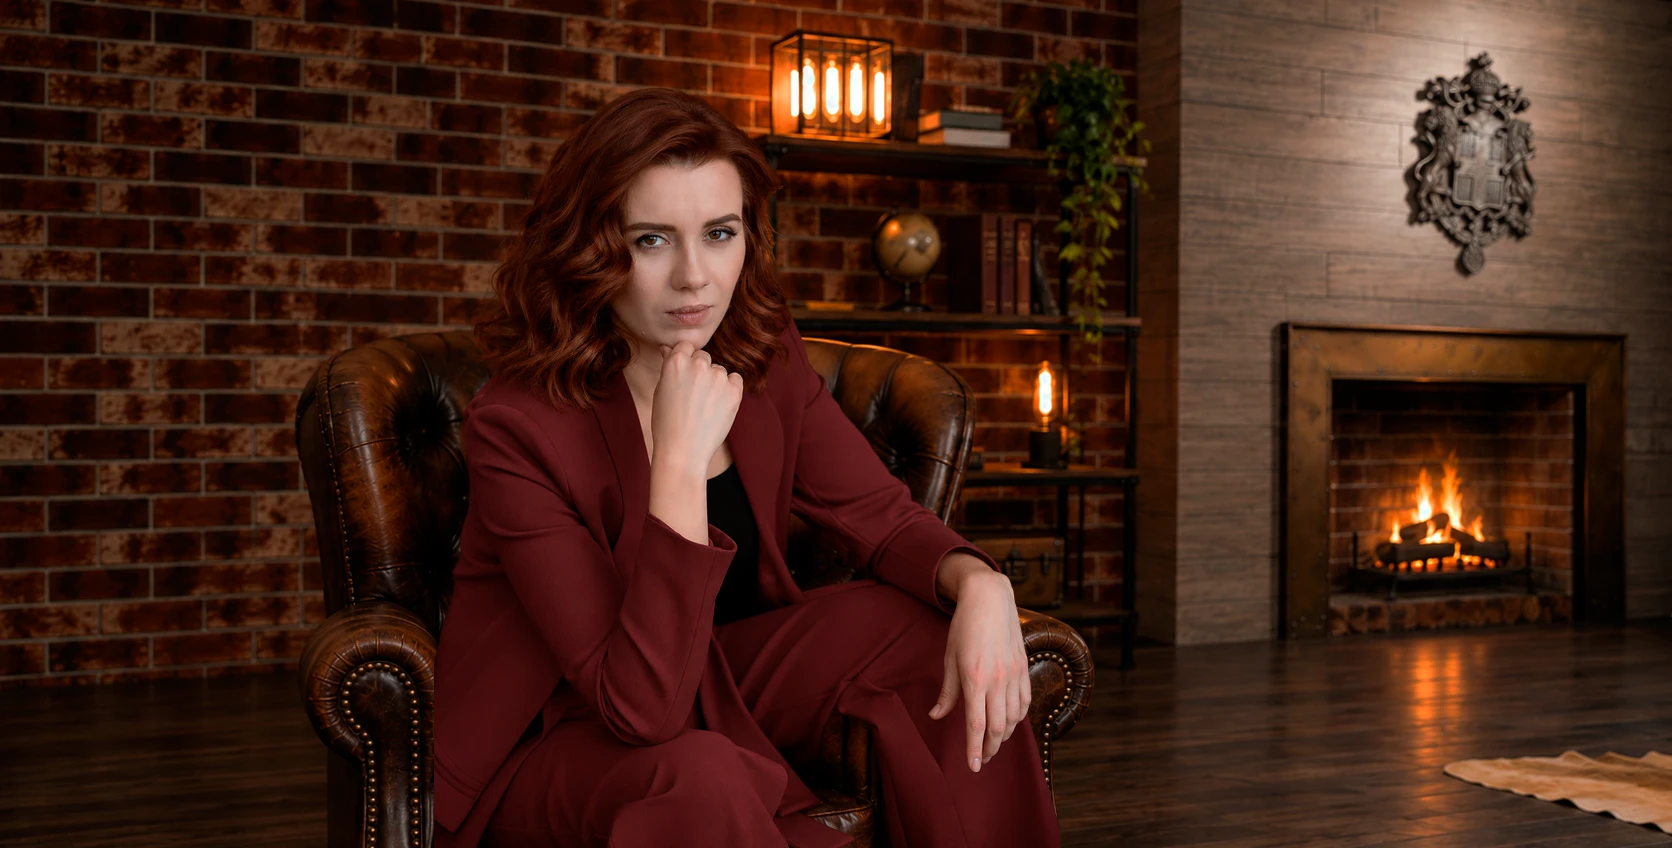
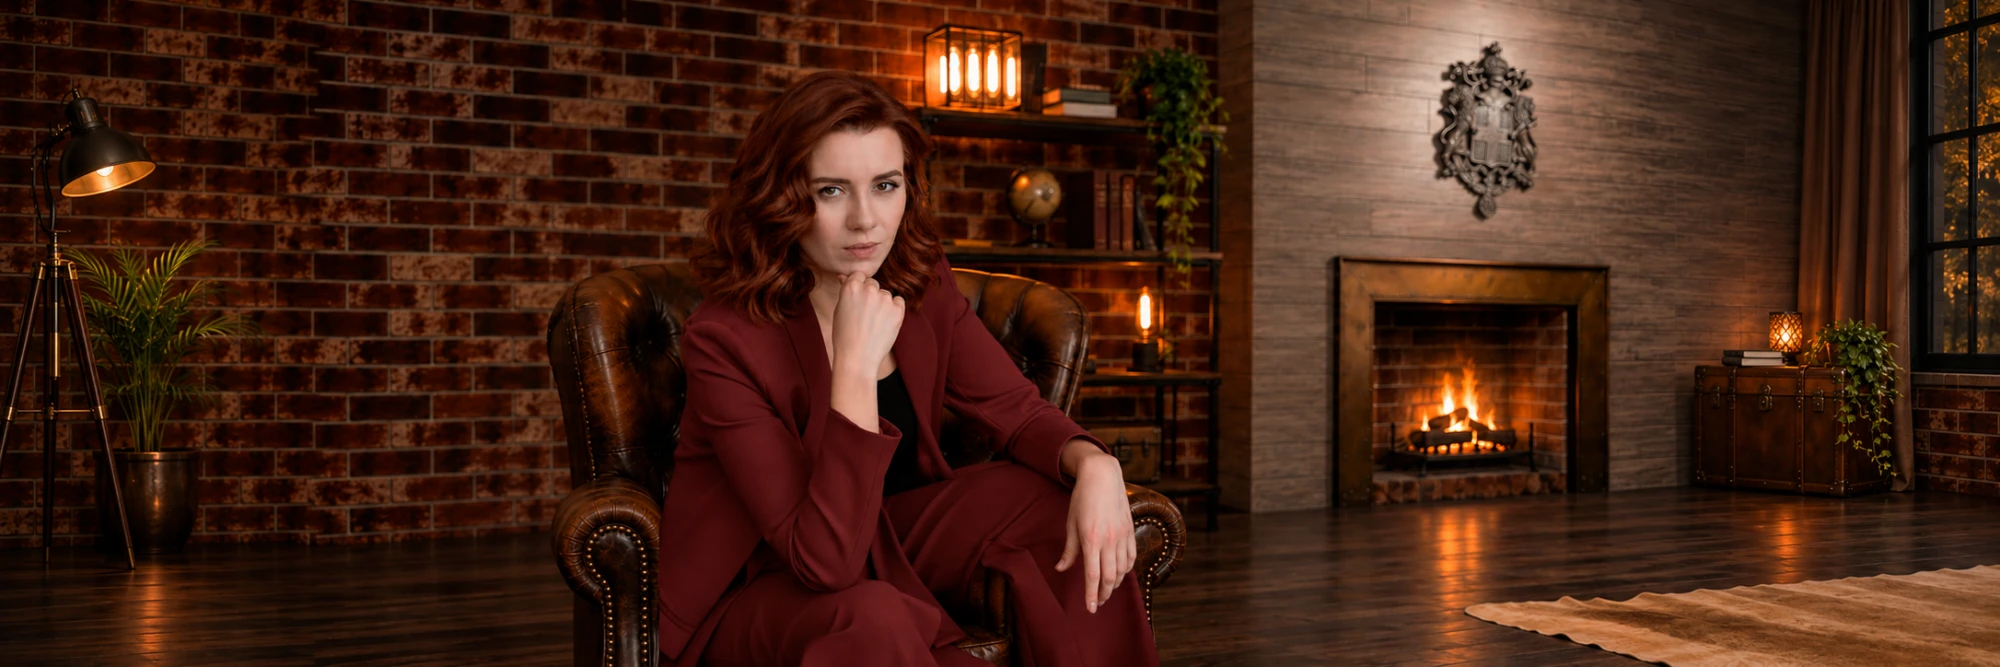
Hero: use panoramic photo, drop blurred backdrop

diff --git a/src/style.css b/src/style.css
@@ -27,9 +27,8 @@ a:focus-visible{outline:2px solid var(--accent);outline-offset:3px}
 .btn:hover{background:var(--brown)}
 
 /* Hero: beige bar with menu on top, full-width photo below */
-.hero{position:relative;height:clamp(600px,calc(76px + 46vw),820px);background:#2b1a14;overflow:hidden;isolation:isolate;--pad:clamp(16px,3vw,40px);--on-photo:#F6F1E9;--hl:#E9C58E;--soft:#E3CFAE}
-.hero__bg{position:absolute;left:0;top:76px;width:100%;height:calc(100% - 76px);object-fit:cover;filter:blur(30px) brightness(.8);transform:scale(1.15);z-index:0}
-.hero__photo{position:absolute;left:50%;top:76px;transform:translateX(-50%);width:min(74vw,1100px);height:calc(100% - 76px);object-fit:cover;object-position:38% 50%;z-index:0;-webkit-mask-image:linear-gradient(to right,transparent,#000 14%,#000 86%,transparent);mask-image:linear-gradient(to right,transparent,#000 14%,#000 86%,transparent)}
+.hero{position:relative;height:clamp(560px,calc(76px + 42vw),780px);background:#2b1a14;overflow:hidden;isolation:isolate;--pad:clamp(16px,3vw,40px);--on-photo:#F6F1E9;--hl:#E9C58E;--soft:#E3CFAE}
+.hero__photo{position:absolute;left:0;top:76px;width:100%;height:calc(100% - 76px);object-fit:cover;object-position:16% 50%;z-index:0}
 .hero::after{content:"";position:absolute;left:0;right:0;top:76px;bottom:0;z-index:1;pointer-events:none;background:linear-gradient(to left,rgba(30,20,15,.6) 0,rgba(30,20,15,0) 38%),linear-gradient(to bottom,rgba(43,33,28,.25) 0,rgba(43,33,28,0) 30%,rgba(43,33,28,0) 62%,rgba(43,33,28,.35) 100%)}
 .hero__title{margin:0;position:absolute;left:0;right:0;top:62%;display:grid;grid-template-columns:1fr auto 1fr;align-items:center;column-gap:clamp(12px,2vw,28px);padding:0 var(--pad);font-family:var(--display);font-weight:700;letter-spacing:-.03em;line-height:1;pointer-events:none;z-index:2;color:var(--on-photo);text-shadow:0 2px 18px rgba(43,33,28,.55)}
 .w{font-size:clamp(28px,4.4vw,66px);white-space:nowrap;display:flex;align-items:center;gap:clamp(12px,2vw,28px)}
@@ -52,8 +51,8 @@ a:focus-visible{outline:2px solid var(--accent);outline-offset:3px}
   .top{grid-template-columns:1fr auto}
   .top__nav,.top__phone{display:none}
   .hero{height:auto;padding-top:76px;display:flex;flex-direction:column;background:var(--bg)}
-  .hero::after,.hero__bg{display:none}
-  .hero__photo{position:static;order:2;transform:none;width:100%;height:auto;aspect-ratio:3/4;object-position:40% 50%;-webkit-mask-image:none;mask-image:none}
+  .hero::after{display:none}
+  .hero__photo{position:static;order:2;transform:none;width:100%;height:auto;aspect-ratio:3/4;object-position:38% 50%}
   .hero__title{position:static;order:1;display:flex;flex-direction:column;align-items:flex-start;gap:4px;padding:8px 16px 20px;color:var(--brown);text-shadow:none}
   .w,.w--c{font-size:clamp(40px,13vw,64px)}.arr{display:none}
   .w--l,.w--r{color:var(--accent)}

diff --git a/index.html b/index.html
@@ -31,9 +31,7 @@
       <span class="w w--c">Команда</span>
       <span class="w w--r"><svg class="arr" viewBox="0 0 64 24" aria-hidden="true" focusable="false"><path d="M2 12h58M48 3l12 9-12 9" fill="none" stroke="currentColor" stroke-width="3.5" stroke-linecap="round" stroke-linejoin="round"/></svg>Запуск</span>
     </h1>
-
-    <img class="hero__bg" src="/images/hero.webp" alt="" aria-hidden="true">
-    <img class="hero__photo" src="/images/hero.webp" width="1672" height="859"
+    <img class="hero__photo" src="/images/hero.webp" width="2000" height="667"
          alt="Катерина Кочерга в бордовому костюмі в кріслі в інтерʼєрі з цегляною стіною і каміном">
 
     <p class="note note--l">Веду сайти від ідеї до запуску й сама створюю їхній дизайн.</p>
